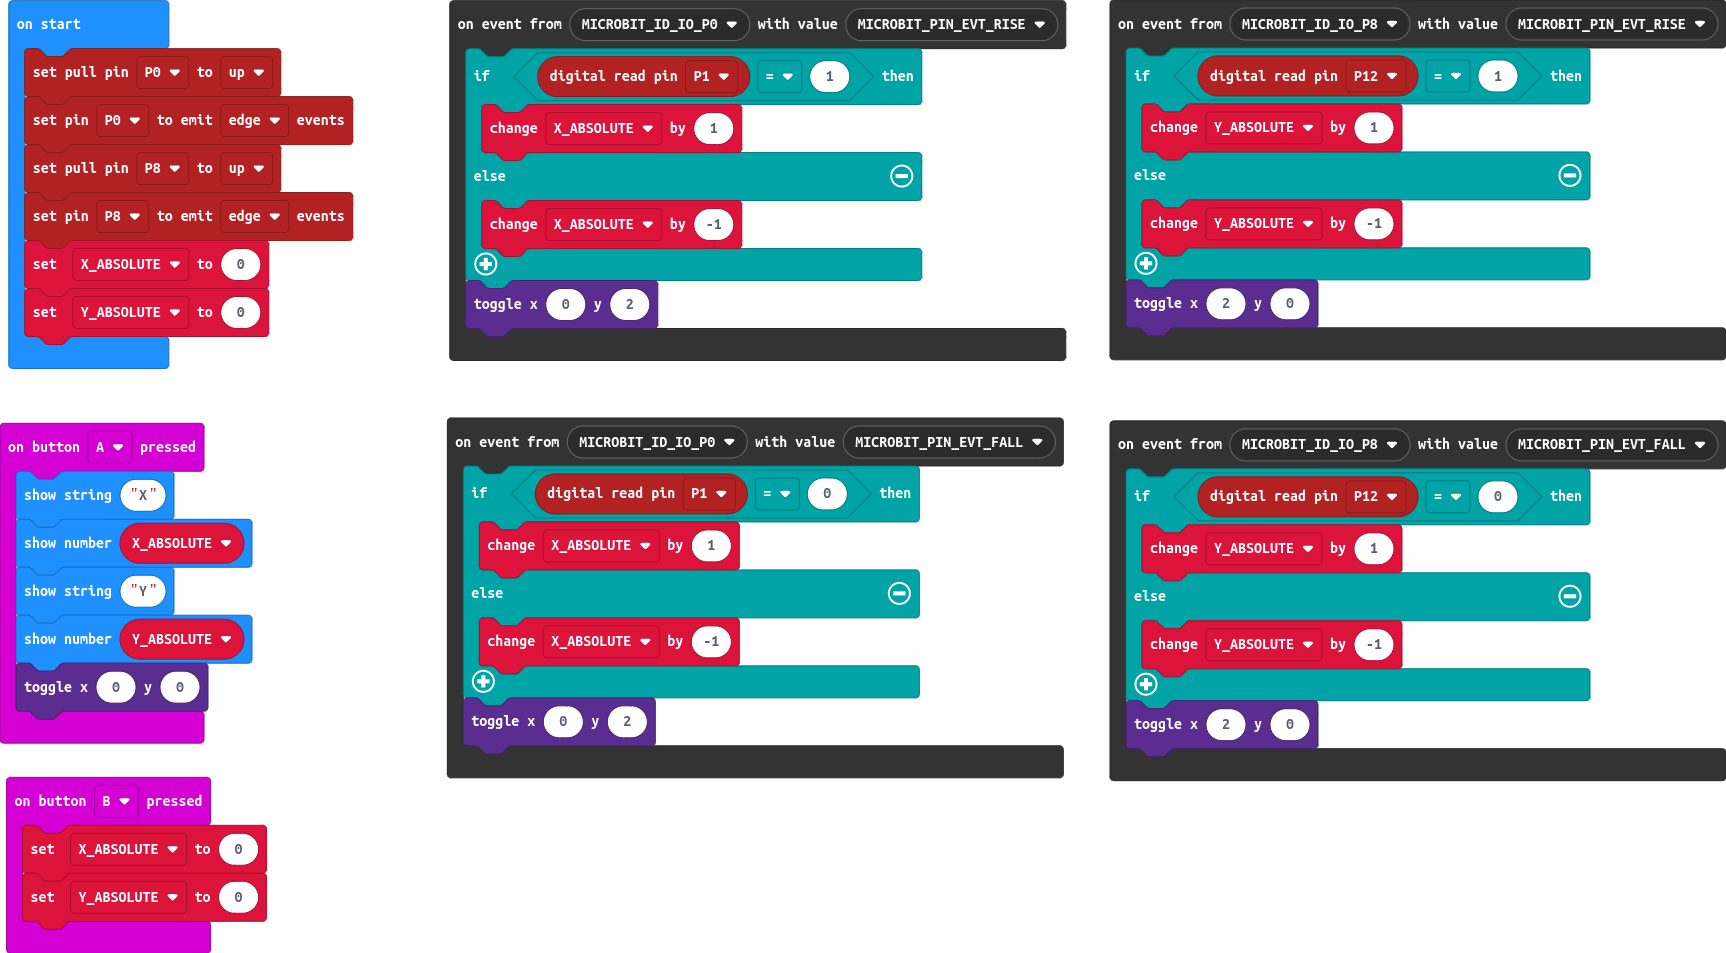
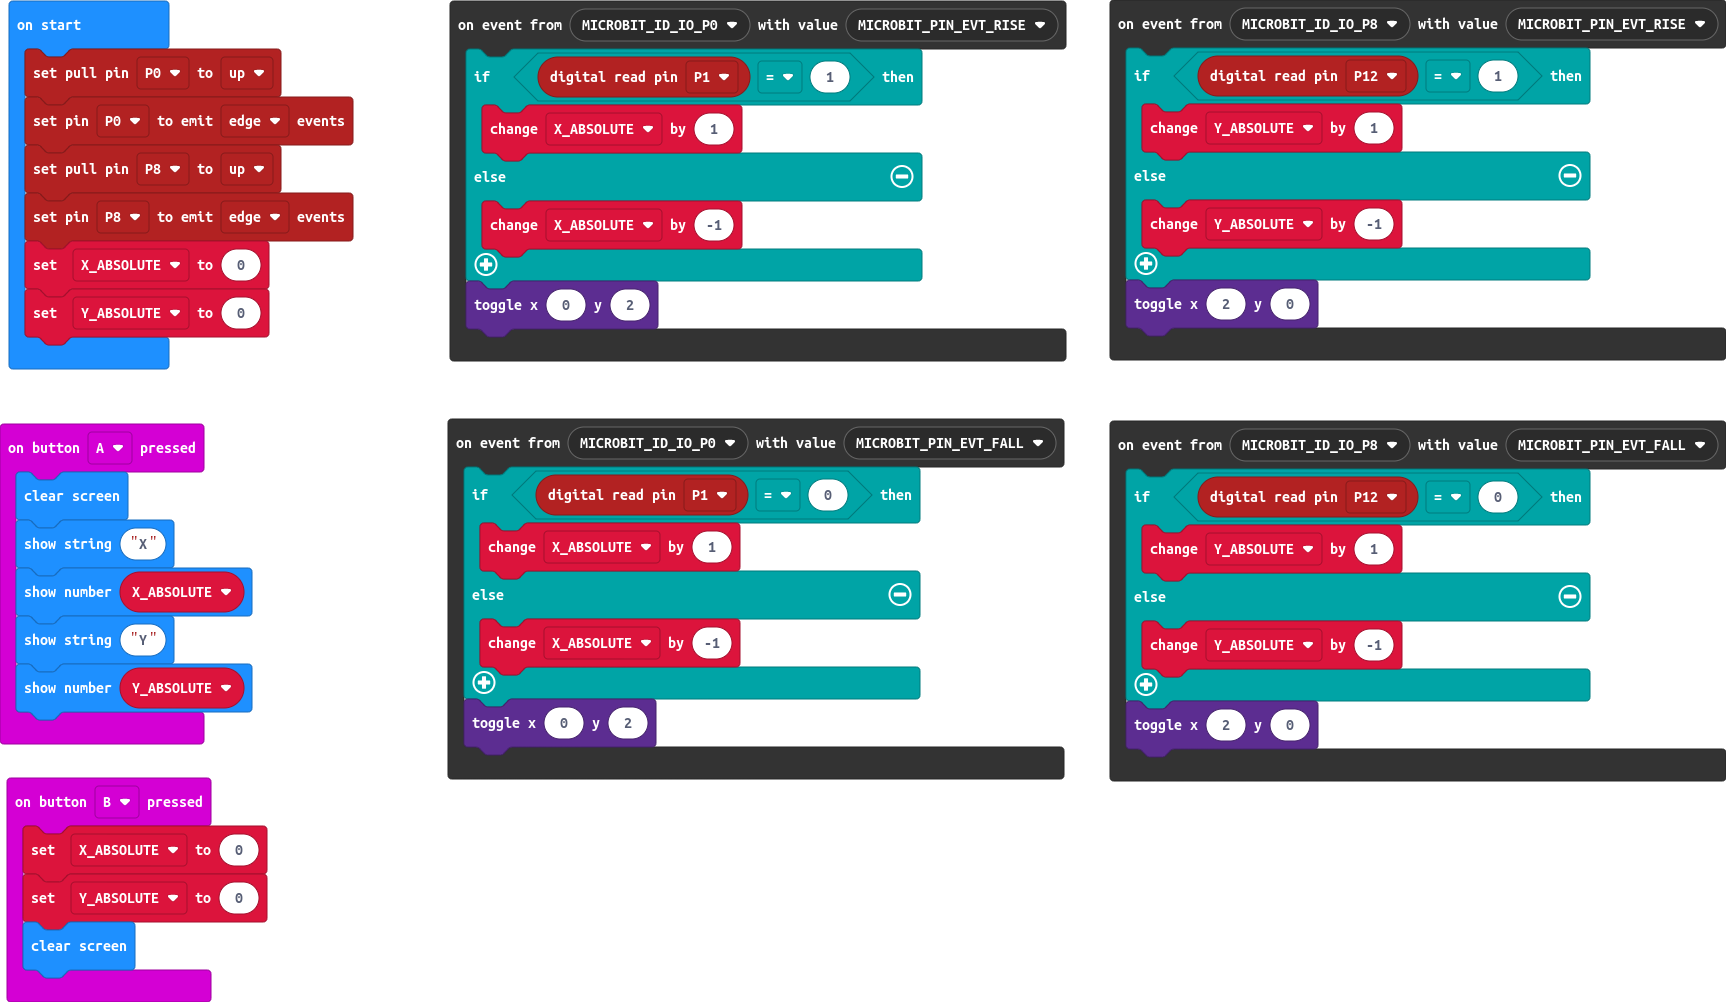
Show values on button a push

diff --git a/main.ts b/main.ts
@@ -15,11 +15,11 @@ control.onEvent(EventBusSource.MICROBIT_ID_IO_P0, EventBusValue.MICROBIT_PIN_EVT
     led.toggle(0, 2)
 })
 input.onButtonPressed(Button.A, function () {
+    basic.clearScreen()
     basic.showString("X")
     basic.showNumber(X_ABSOLUTE)
     basic.showString("Y")
     basic.showNumber(Y_ABSOLUTE)
-    led.toggle(0, 0)
 })
 control.onEvent(EventBusSource.MICROBIT_ID_IO_P8, EventBusValue.MICROBIT_PIN_EVT_FALL, function () {
     if (pins.digitalReadPin(DigitalPin.P12) == 0) {
@@ -32,6 +32,7 @@ control.onEvent(EventBusSource.MICROBIT_ID_IO_P8, EventBusValue.MICROBIT_PIN_EVT
 input.onButtonPressed(Button.B, function () {
     X_ABSOLUTE = 0
     Y_ABSOLUTE = 0
+    basic.clearScreen()
 })
 control.onEvent(EventBusSource.MICROBIT_ID_IO_P0, EventBusValue.MICROBIT_PIN_EVT_FALL, function () {
     if (pins.digitalReadPin(DigitalPin.P1) == 0) {
